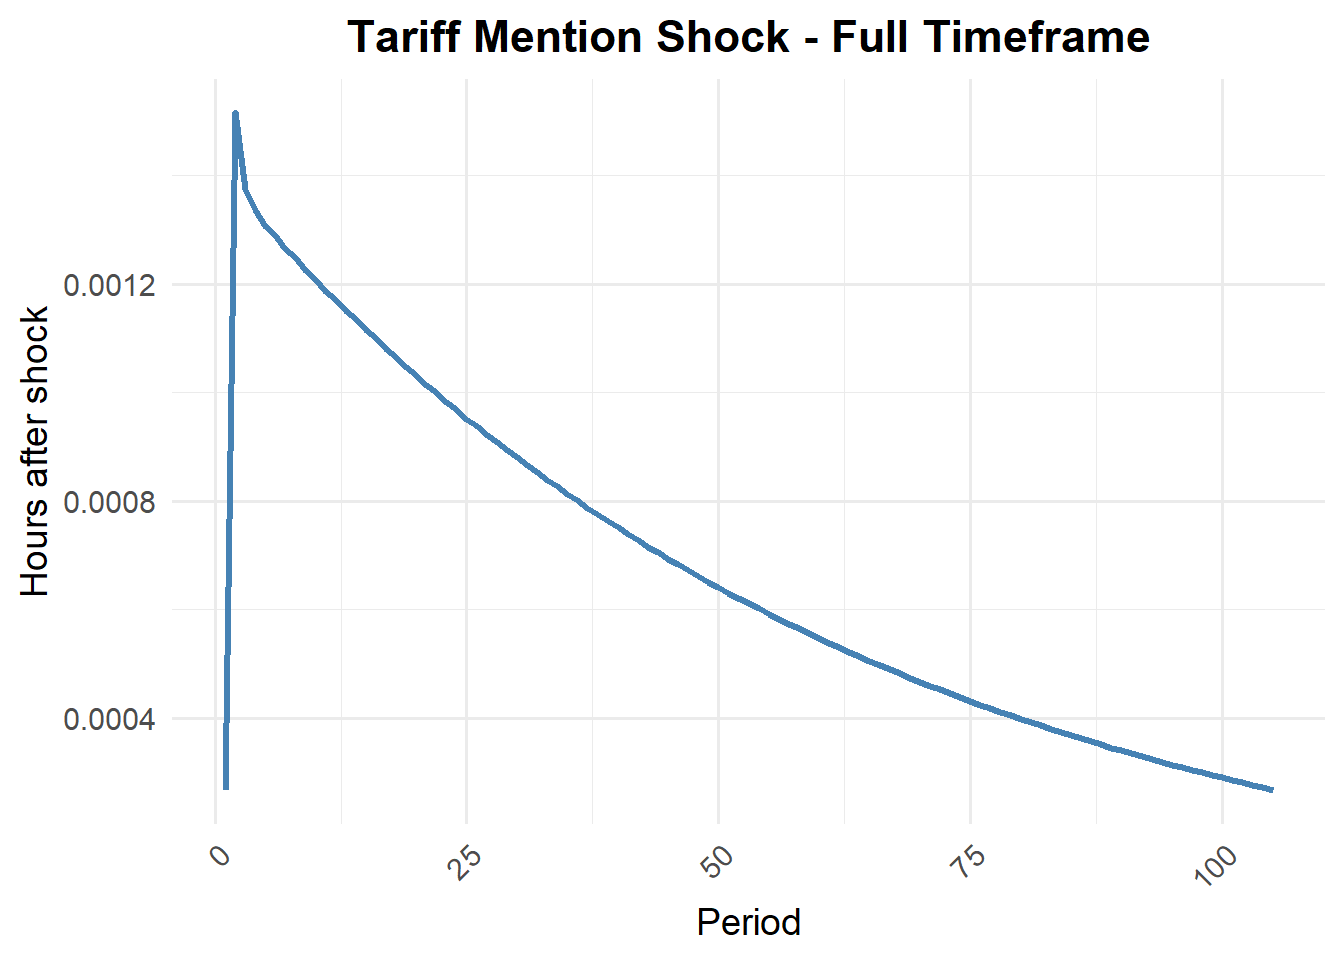
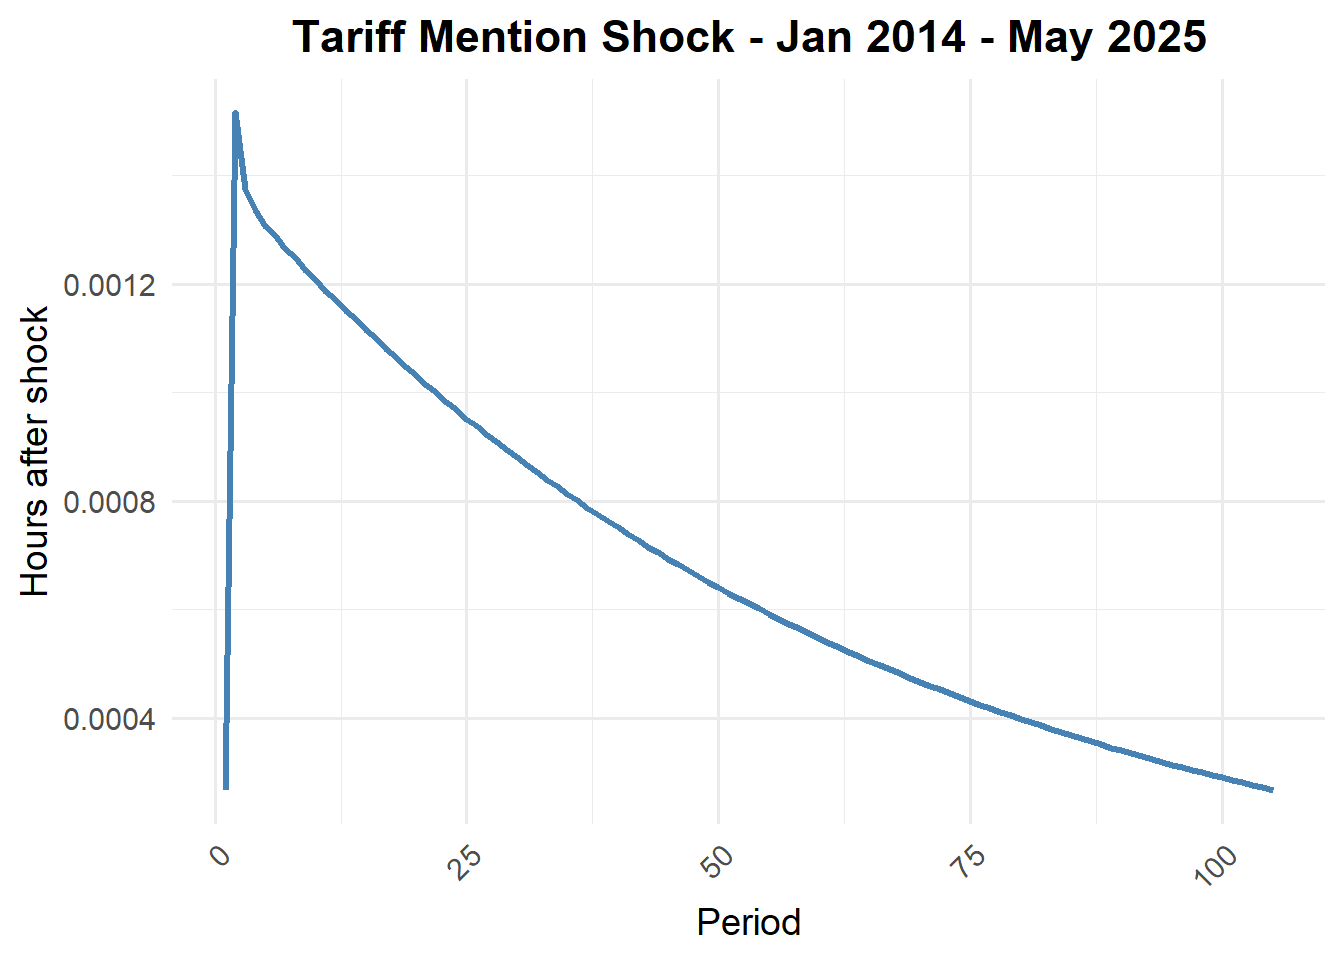
update cleanup of appendix

Changed region(s): [[0.2188, 0.0, 0.9062, 0.0625]]

diff --git a/docs/appendix.html b/docs/appendix.html
@@ -2267,14 +2267,14 @@ margin-left: 2em;
 </ul></li>
 <li class="chapter" data-level="7" data-path="appendix.html"><a href="appendix.html"><i class="fa fa-check"></i><b>7</b> Appendix</a>
 <ul>
-<li class="chapter" data-level="7.1" data-path="appendix.html"><a href="appendix.html#full-timeframe-jan-2014-to-may-2025"><i class="fa fa-check"></i><b>7.1</b> Full Timeframe (Jan 2014 to May 2025)</a>
+<li class="chapter" data-level="7.1" data-path="appendix.html"><a href="appendix.html#armax"><i class="fa fa-check"></i><b>7.1</b> ARMAX</a>
 <ul>
 <li class="chapter" data-level="7.1.1" data-path="appendix.html"><a href="appendix.html#sec:spy-table"><i class="fa fa-check"></i><b>7.1.1</b> SPY ARMAX Table (Jan 2014 - May 2025)</a></li>
 <li class="chapter" data-level="7.1.2" data-path="appendix.html"><a href="appendix.html#sec:SPY-IRF"><i class="fa fa-check"></i><b>7.1.2</b> SPY ARMAX IRFs (Jan 2024 - May 2025)</a></li>
 <li class="chapter" data-level="7.1.3" data-path="appendix.html"><a href="appendix.html#sec:SPYres"><i class="fa fa-check"></i><b>7.1.3</b> SPY Residuals</a></li>
 <li class="chapter" data-level="7.1.4" data-path="appendix.html"><a href="appendix.html#sec:spy-table-terms"><i class="fa fa-check"></i><b>7.1.4</b> SPY ARMAX Table (Separate Terms)</a></li>
+<li class="chapter" data-level="7.1.5" data-path="appendix.html"><a href="appendix.html#sec:SPYressum"><i class="fa fa-check"></i><b>7.1.5</b> Residual Test</a></li>
 </ul></li>
-<li class="chapter" data-level="7.2" data-path="appendix.html"><a href="appendix.html#sec:SPYressum"><i class="fa fa-check"></i><b>7.2</b> Descriptive Stats</a></li>
 </ul></li>
 <li class="chapter" data-level="8" data-path="cross.html"><a href="cross.html"><i class="fa fa-check"></i><b>8</b> Cross-references</a>
 <ul>
@@ -2303,8 +2303,8 @@ margin-left: 2em;
             <section class="normal" id="section-">
 <div id="appendix" class="section level1 hasAnchor" number="7">
 <h1><span class="header-section-number">Part 7</span> Appendix<a href="appendix.html#appendix" class="anchor-section" aria-label="Anchor link to header"></a></h1>
-<div id="full-timeframe-jan-2014-to-may-2025" class="section level2 hasAnchor" number="7.1">
-<h2><span class="header-section-number">7.1</span> Full Timeframe (Jan 2014 to May 2025)<a href="appendix.html#full-timeframe-jan-2014-to-may-2025" class="anchor-section" aria-label="Anchor link to header"></a></h2>
+<div id="armax" class="section level2 hasAnchor" number="7.1">
+<h2><span class="header-section-number">7.1</span> ARMAX<a href="appendix.html#armax" class="anchor-section" aria-label="Anchor link to header"></a></h2>
 <p>We choose the specification in the armax_models file. In this file, we will
 just run said specifications to produce nice tables and graphs to include in
 our final paper. This is also why there are specification differences in the
@@ -3130,7 +3130,7 @@ Num. obs.
 </div>
 <div id="sec:SPY-IRF" class="section level3 hasAnchor" number="7.1.2">
 <h3><span class="header-section-number">7.1.2</span> SPY ARMAX IRFs (Jan 2024 - May 2025)<a href="appendix.html#sec:SPY-IRF" class="anchor-section" aria-label="Anchor link to header"></a></h3>
[2 lines of base64/hex data omitted]
 </div>
 <div id="sec:SPYres" class="section level3 hasAnchor" number="7.1.3">
 <h3><span class="header-section-number">7.1.3</span> SPY Residuals<a href="appendix.html#sec:SPYres" class="anchor-section" aria-label="Anchor link to header"></a></h3>
@@ -3994,9 +3994,8 @@ Num. obs.
 </tfoot>
 </table>
 </div>
-</div>
-<div id="sec:SPYressum" class="section level2 hasAnchor" number="7.2">
-<h2><span class="header-section-number">7.2</span> Descriptive Stats<a href="appendix.html#sec:SPYressum" class="anchor-section" aria-label="Anchor link to header"></a></h2>
+<div id="sec:SPYressum" class="section level3 hasAnchor" number="7.1.5">
+<h3><span class="header-section-number">7.1.5</span> Residual Test<a href="appendix.html#sec:SPYressum" class="anchor-section" aria-label="Anchor link to header"></a></h3>
 <table class="table table-striped table-hover table-condensed" style="width: auto !important; margin-left: auto; margin-right: auto;">
 <caption>
 <span id="tab:means">Table 7.2: </span>Ljung-Box Test p-values for Residuals
@@ -4091,6 +4090,7 @@ China
 </tbody>
 </table>
 
+</div>
 </div>
 </div>
             </section>

diff --git a/docs/arma-x.html b/docs/arma-x.html
@@ -2267,14 +2267,14 @@ margin-left: 2em;
 </ul></li>
 <li class="chapter" data-level="7" data-path="appendix.html"><a href="appendix.html"><i class="fa fa-check"></i><b>7</b> Appendix</a>
 <ul>
-<li class="chapter" data-level="7.1" data-path="appendix.html"><a href="appendix.html#full-timeframe-jan-2014-to-may-2025"><i class="fa fa-check"></i><b>7.1</b> Full Timeframe (Jan 2014 to May 2025)</a>
+<li class="chapter" data-level="7.1" data-path="appendix.html"><a href="appendix.html#armax"><i class="fa fa-check"></i><b>7.1</b> ARMAX</a>
 <ul>
 <li class="chapter" data-level="7.1.1" data-path="appendix.html"><a href="appendix.html#sec:spy-table"><i class="fa fa-check"></i><b>7.1.1</b> SPY ARMAX Table (Jan 2014 - May 2025)</a></li>
 <li class="chapter" data-level="7.1.2" data-path="appendix.html"><a href="appendix.html#sec:SPY-IRF"><i class="fa fa-check"></i><b>7.1.2</b> SPY ARMAX IRFs (Jan 2024 - May 2025)</a></li>
 <li class="chapter" data-level="7.1.3" data-path="appendix.html"><a href="appendix.html#sec:SPYres"><i class="fa fa-check"></i><b>7.1.3</b> SPY Residuals</a></li>
 <li class="chapter" data-level="7.1.4" data-path="appendix.html"><a href="appendix.html#sec:spy-table-terms"><i class="fa fa-check"></i><b>7.1.4</b> SPY ARMAX Table (Separate Terms)</a></li>
+<li class="chapter" data-level="7.1.5" data-path="appendix.html"><a href="appendix.html#sec:SPYressum"><i class="fa fa-check"></i><b>7.1.5</b> Residual Test</a></li>
 </ul></li>
-<li class="chapter" data-level="7.2" data-path="appendix.html"><a href="appendix.html#sec:SPYressum"><i class="fa fa-check"></i><b>7.2</b> Descriptive Stats</a></li>
 </ul></li>
 <li class="chapter" data-level="8" data-path="cross.html"><a href="cross.html"><i class="fa fa-check"></i><b>8</b> Cross-references</a>
 <ul>
@@ -2328,7 +2328,7 @@ and the mentions of words <span class="math inline">\(Tariff\)</span>, <span cla
 apart from trade. Notice also that all the coefficients (apart from <span class="math inline">\(Tariff_{t-3}\)</span>)
 are positive, in line with our main hypothesis. The effect of <span class="math inline">\(Tariff_{t-1}\)</span> and
 <span class="math inline">\(Tariff_{t-2}\)</span> are especially large, given the usual size of the volatility
-(<span style="color:red"> <em>ARMAX Table 4</em> </span>) <a href="appendix.html#sec:SPYressum">7.2</a>. We in fact predict that an
+(<span style="color:red"> <em>ARMAX Table 4</em> </span>) <a href="appendix.html#sec:SPYressum">7.1.5</a>. We in fact predict that an
 extra mention of tariffs one hour ago, leads to a whopping extra 0.02 in volatility
 which is just about the average size for the full timeframe. We can see the
 impulse response function (IRF) for this shock, in <span style="color:red"> <em>IRFtarif</em> </span>.
@@ -2351,7 +2351,7 @@ story goes for the China variable. This may lend some evidence to support the
 claim that investors are much more reactive to Trump’s social media presence
 now than before.
 Finally, we can check the residuals of all these models to test them somewhat.
-On <span style="color:red"> <em>ARMAX Table 3</em> </span>, <a href="appendix.html#sec:SPYressum">7.2</a> the pvalues being zero
+On <span style="color:red"> <em>ARMAX Table 3</em> </span>, <a href="appendix.html#sec:SPYressum">7.1.5</a> the pvalues being zero
 for the full timeframe and first term indicate that there is autocorrelation in
 the residuals, thus suggesting that these estimations have problems. Note however,
 that the pvalues for the second term are quite high, lending support to our

diff --git a/docs/404.html b/docs/404.html
@@ -2267,14 +2267,14 @@ margin-left: 2em;
 </ul></li>
 <li class="chapter" data-level="7" data-path="appendix.html"><a href="appendix.html"><i class="fa fa-check"></i><b>7</b> Appendix</a>
 <ul>
-<li class="chapter" data-level="7.1" data-path="appendix.html"><a href="appendix.html#full-timeframe-jan-2014-to-may-2025"><i class="fa fa-check"></i><b>7.1</b> Full Timeframe (Jan 2014 to May 2025)</a>
+<li class="chapter" data-level="7.1" data-path="appendix.html"><a href="appendix.html#armax"><i class="fa fa-check"></i><b>7.1</b> ARMAX</a>
 <ul>
 <li class="chapter" data-level="7.1.1" data-path="appendix.html"><a href="appendix.html#sec:spy-table"><i class="fa fa-check"></i><b>7.1.1</b> SPY ARMAX Table (Jan 2014 - May 2025)</a></li>
 <li class="chapter" data-level="7.1.2" data-path="appendix.html"><a href="appendix.html#sec:SPY-IRF"><i class="fa fa-check"></i><b>7.1.2</b> SPY ARMAX IRFs (Jan 2024 - May 2025)</a></li>
 <li class="chapter" data-level="7.1.3" data-path="appendix.html"><a href="appendix.html#sec:SPYres"><i class="fa fa-check"></i><b>7.1.3</b> SPY Residuals</a></li>
 <li class="chapter" data-level="7.1.4" data-path="appendix.html"><a href="appendix.html#sec:spy-table-terms"><i class="fa fa-check"></i><b>7.1.4</b> SPY ARMAX Table (Separate Terms)</a></li>
+<li class="chapter" data-level="7.1.5" data-path="appendix.html"><a href="appendix.html#sec:SPYressum"><i class="fa fa-check"></i><b>7.1.5</b> Residual Test</a></li>
 </ul></li>
-<li class="chapter" data-level="7.2" data-path="appendix.html"><a href="appendix.html#sec:SPYressum"><i class="fa fa-check"></i><b>7.2</b> Descriptive Stats</a></li>
 </ul></li>
 <li class="chapter" data-level="8" data-path="cross.html"><a href="cross.html"><i class="fa fa-check"></i><b>8</b> Cross-references</a>
 <ul>

diff --git a/docs/abstract.html b/docs/abstract.html
@@ -2267,14 +2267,14 @@ margin-left: 2em;
 </ul></li>
 <li class="chapter" data-level="7" data-path="appendix.html"><a href="appendix.html"><i class="fa fa-check"></i><b>7</b> Appendix</a>
 <ul>
-<li class="chapter" data-level="7.1" data-path="appendix.html"><a href="appendix.html#full-timeframe-jan-2014-to-may-2025"><i class="fa fa-check"></i><b>7.1</b> Full Timeframe (Jan 2014 to May 2025)</a>
+<li class="chapter" data-level="7.1" data-path="appendix.html"><a href="appendix.html#armax"><i class="fa fa-check"></i><b>7.1</b> ARMAX</a>
 <ul>
 <li class="chapter" data-level="7.1.1" data-path="appendix.html"><a href="appendix.html#sec:spy-table"><i class="fa fa-check"></i><b>7.1.1</b> SPY ARMAX Table (Jan 2014 - May 2025)</a></li>
 <li class="chapter" data-level="7.1.2" data-path="appendix.html"><a href="appendix.html#sec:SPY-IRF"><i class="fa fa-check"></i><b>7.1.2</b> SPY ARMAX IRFs (Jan 2024 - May 2025)</a></li>
 <li class="chapter" data-level="7.1.3" data-path="appendix.html"><a href="appendix.html#sec:SPYres"><i class="fa fa-check"></i><b>7.1.3</b> SPY Residuals</a></li>
 <li class="chapter" data-level="7.1.4" data-path="appendix.html"><a href="appendix.html#sec:spy-table-terms"><i class="fa fa-check"></i><b>7.1.4</b> SPY ARMAX Table (Separate Terms)</a></li>
+<li class="chapter" data-level="7.1.5" data-path="appendix.html"><a href="appendix.html#sec:SPYressum"><i class="fa fa-check"></i><b>7.1.5</b> Residual Test</a></li>
 </ul></li>
-<li class="chapter" data-level="7.2" data-path="appendix.html"><a href="appendix.html#sec:SPYressum"><i class="fa fa-check"></i><b>7.2</b> Descriptive Stats</a></li>
 </ul></li>
 <li class="chapter" data-level="8" data-path="cross.html"><a href="cross.html"><i class="fa fa-check"></i><b>8</b> Cross-references</a>
 <ul>

diff --git a/docs/bibliography.html b/docs/bibliography.html
@@ -2267,14 +2267,14 @@ margin-left: 2em;
 </ul></li>
 <li class="chapter" data-level="7" data-path="appendix.html"><a href="appendix.html"><i class="fa fa-check"></i><b>7</b> Appendix</a>
 <ul>
-<li class="chapter" data-level="7.1" data-path="appendix.html"><a href="appendix.html#full-timeframe-jan-2014-to-may-2025"><i class="fa fa-check"></i><b>7.1</b> Full Timeframe (Jan 2014 to May 2025)</a>
+<li class="chapter" data-level="7.1" data-path="appendix.html"><a href="appendix.html#armax"><i class="fa fa-check"></i><b>7.1</b> ARMAX</a>
 <ul>
 <li class="chapter" data-level="7.1.1" data-path="appendix.html"><a href="appendix.html#sec:spy-table"><i class="fa fa-check"></i><b>7.1.1</b> SPY ARMAX Table (Jan 2014 - May 2025)</a></li>
 <li class="chapter" data-level="7.1.2" data-path="appendix.html"><a href="appendix.html#sec:SPY-IRF"><i class="fa fa-check"></i><b>7.1.2</b> SPY ARMAX IRFs (Jan 2024 - May 2025)</a></li>
 <li class="chapter" data-level="7.1.3" data-path="appendix.html"><a href="appendix.html#sec:SPYres"><i class="fa fa-check"></i><b>7.1.3</b> SPY Residuals</a></li>
 <li class="chapter" data-level="7.1.4" data-path="appendix.html"><a href="appendix.html#sec:spy-table-terms"><i class="fa fa-check"></i><b>7.1.4</b> SPY ARMAX Table (Separate Terms)</a></li>
+<li class="chapter" data-level="7.1.5" data-path="appendix.html"><a href="appendix.html#sec:SPYressum"><i class="fa fa-check"></i><b>7.1.5</b> Residual Test</a></li>
 </ul></li>
-<li class="chapter" data-level="7.2" data-path="appendix.html"><a href="appendix.html#sec:SPYressum"><i class="fa fa-check"></i><b>7.2</b> Descriptive Stats</a></li>
 </ul></li>
 <li class="chapter" data-level="8" data-path="cross.html"><a href="cross.html"><i class="fa fa-check"></i><b>8</b> Cross-references</a>
 <ul>

diff --git a/docs/conclusion.html b/docs/conclusion.html
@@ -2267,14 +2267,14 @@ margin-left: 2em;
 </ul></li>
 <li class="chapter" data-level="7" data-path="appendix.html"><a href="appendix.html"><i class="fa fa-check"></i><b>7</b> Appendix</a>
 <ul>
-<li class="chapter" data-level="7.1" data-path="appendix.html"><a href="appendix.html#full-timeframe-jan-2014-to-may-2025"><i class="fa fa-check"></i><b>7.1</b> Full Timeframe (Jan 2014 to May 2025)</a>
+<li class="chapter" data-level="7.1" data-path="appendix.html"><a href="appendix.html#armax"><i class="fa fa-check"></i><b>7.1</b> ARMAX</a>
 <ul>
 <li class="chapter" data-level="7.1.1" data-path="appendix.html"><a href="appendix.html#sec:spy-table"><i class="fa fa-check"></i><b>7.1.1</b> SPY ARMAX Table (Jan 2014 - May 2025)</a></li>
 <li class="chapter" data-level="7.1.2" data-path="appendix.html"><a href="appendix.html#sec:SPY-IRF"><i class="fa fa-check"></i><b>7.1.2</b> SPY ARMAX IRFs (Jan 2024 - May 2025)</a></li>
 <li class="chapter" data-level="7.1.3" data-path="appendix.html"><a href="appendix.html#sec:SPYres"><i class="fa fa-check"></i><b>7.1.3</b> SPY Residuals</a></li>
 <li class="chapter" data-level="7.1.4" data-path="appendix.html"><a href="appendix.html#sec:spy-table-terms"><i class="fa fa-check"></i><b>7.1.4</b> SPY ARMAX Table (Separate Terms)</a></li>
+<li class="chapter" data-level="7.1.5" data-path="appendix.html"><a href="appendix.html#sec:SPYressum"><i class="fa fa-check"></i><b>7.1.5</b> Residual Test</a></li>
 </ul></li>
-<li class="chapter" data-level="7.2" data-path="appendix.html"><a href="appendix.html#sec:SPYressum"><i class="fa fa-check"></i><b>7.2</b> Descriptive Stats</a></li>
 </ul></li>
 <li class="chapter" data-level="8" data-path="cross.html"><a href="cross.html"><i class="fa fa-check"></i><b>8</b> Cross-references</a>
 <ul>

diff --git a/docs/cross.html b/docs/cross.html
@@ -2267,14 +2267,14 @@ margin-left: 2em;
 </ul></li>
 <li class="chapter" data-level="7" data-path="appendix.html"><a href="appendix.html"><i class="fa fa-check"></i><b>7</b> Appendix</a>
 <ul>
-<li class="chapter" data-level="7.1" data-path="appendix.html"><a href="appendix.html#full-timeframe-jan-2014-to-may-2025"><i class="fa fa-check"></i><b>7.1</b> Full Timeframe (Jan 2014 to May 2025)</a>
+<li class="chapter" data-level="7.1" data-path="appendix.html"><a href="appendix.html#armax"><i class="fa fa-check"></i><b>7.1</b> ARMAX</a>
 <ul>
 <li class="chapter" data-level="7.1.1" data-path="appendix.html"><a href="appendix.html#sec:spy-table"><i class="fa fa-check"></i><b>7.1.1</b> SPY ARMAX Table (Jan 2014 - May 2025)</a></li>
 <li class="chapter" data-level="7.1.2" data-path="appendix.html"><a href="appendix.html#sec:SPY-IRF"><i class="fa fa-check"></i><b>7.1.2</b> SPY ARMAX IRFs (Jan 2024 - May 2025)</a></li>
 <li class="chapter" data-level="7.1.3" data-path="appendix.html"><a href="appendix.html#sec:SPYres"><i class="fa fa-check"></i><b>7.1.3</b> SPY Residuals</a></li>
 <li class="chapter" data-level="7.1.4" data-path="appendix.html"><a href="appendix.html#sec:spy-table-terms"><i class="fa fa-check"></i><b>7.1.4</b> SPY ARMAX Table (Separate Terms)</a></li>
+<li class="chapter" data-level="7.1.5" data-path="appendix.html"><a href="appendix.html#sec:SPYressum"><i class="fa fa-check"></i><b>7.1.5</b> Residual Test</a></li>
 </ul></li>
-<li class="chapter" data-level="7.2" data-path="appendix.html"><a href="appendix.html#sec:SPYressum"><i class="fa fa-check"></i><b>7.2</b> Descriptive Stats</a></li>
 </ul></li>
 <li class="chapter" data-level="8" data-path="cross.html"><a href="cross.html"><i class="fa fa-check"></i><b>8</b> Cross-references</a>
 <ul>

diff --git a/docs/data.html b/docs/data.html
@@ -2267,14 +2267,14 @@ margin-left: 2em;
 </ul></li>
 <li class="chapter" data-level="7" data-path="appendix.html"><a href="appendix.html"><i class="fa fa-check"></i><b>7</b> Appendix</a>
 <ul>
-<li class="chapter" data-level="7.1" data-path="appendix.html"><a href="appendix.html#full-timeframe-jan-2014-to-may-2025"><i class="fa fa-check"></i><b>7.1</b> Full Timeframe (Jan 2014 to May 2025)</a>
+<li class="chapter" data-level="7.1" data-path="appendix.html"><a href="appendix.html#armax"><i class="fa fa-check"></i><b>7.1</b> ARMAX</a>
 <ul>
 <li class="chapter" data-level="7.1.1" data-path="appendix.html"><a href="appendix.html#sec:spy-table"><i class="fa fa-check"></i><b>7.1.1</b> SPY ARMAX Table (Jan 2014 - May 2025)</a></li>
 <li class="chapter" data-level="7.1.2" data-path="appendix.html"><a href="appendix.html#sec:SPY-IRF"><i class="fa fa-check"></i><b>7.1.2</b> SPY ARMAX IRFs (Jan 2024 - May 2025)</a></li>
 <li class="chapter" data-level="7.1.3" data-path="appendix.html"><a href="appendix.html#sec:SPYres"><i class="fa fa-check"></i><b>7.1.3</b> SPY Residuals</a></li>
 <li class="chapter" data-level="7.1.4" data-path="appendix.html"><a href="appendix.html#sec:spy-table-terms"><i class="fa fa-check"></i><b>7.1.4</b> SPY ARMAX Table (Separate Terms)</a></li>
+<li class="chapter" data-level="7.1.5" data-path="appendix.html"><a href="appendix.html#sec:SPYressum"><i class="fa fa-check"></i><b>7.1.5</b> Residual Test</a></li>
 </ul></li>
-<li class="chapter" data-level="7.2" data-path="appendix.html"><a href="appendix.html#sec:SPYressum"><i class="fa fa-check"></i><b>7.2</b> Descriptive Stats</a></li>
 </ul></li>
 <li class="chapter" data-level="8" data-path="cross.html"><a href="cross.html"><i class="fa fa-check"></i><b>8</b> Cross-references</a>
 <ul>

diff --git a/docs/index.html b/docs/index.html
@@ -2267,14 +2267,14 @@ margin-left: 2em;
 </ul></li>
 <li class="chapter" data-level="7" data-path="appendix.html"><a href="appendix.html"><i class="fa fa-check"></i><b>7</b> Appendix</a>
 <ul>
-<li class="chapter" data-level="7.1" data-path="appendix.html"><a href="appendix.html#full-timeframe-jan-2014-to-may-2025"><i class="fa fa-check"></i><b>7.1</b> Full Timeframe (Jan 2014 to May 2025)</a>
+<li class="chapter" data-level="7.1" data-path="appendix.html"><a href="appendix.html#armax"><i class="fa fa-check"></i><b>7.1</b> ARMAX</a>
 <ul>
 <li class="chapter" data-level="7.1.1" data-path="appendix.html"><a href="appendix.html#sec:spy-table"><i class="fa fa-check"></i><b>7.1.1</b> SPY ARMAX Table (Jan 2014 - May 2025)</a></li>
 <li class="chapter" data-level="7.1.2" data-path="appendix.html"><a href="appendix.html#sec:SPY-IRF"><i class="fa fa-check"></i><b>7.1.2</b> SPY ARMAX IRFs (Jan 2024 - May 2025)</a></li>
 <li class="chapter" data-level="7.1.3" data-path="appendix.html"><a href="appendix.html#sec:SPYres"><i class="fa fa-check"></i><b>7.1.3</b> SPY Residuals</a></li>
 <li class="chapter" data-level="7.1.4" data-path="appendix.html"><a href="appendix.html#sec:spy-table-terms"><i class="fa fa-check"></i><b>7.1.4</b> SPY ARMAX Table (Separate Terms)</a></li>
+<li class="chapter" data-level="7.1.5" data-path="appendix.html"><a href="appendix.html#sec:SPYressum"><i class="fa fa-check"></i><b>7.1.5</b> Residual Test</a></li>
 </ul></li>
-<li class="chapter" data-level="7.2" data-path="appendix.html"><a href="appendix.html#sec:SPYressum"><i class="fa fa-check"></i><b>7.2</b> Descriptive Stats</a></li>
 </ul></li>
 <li class="chapter" data-level="8" data-path="cross.html"><a href="cross.html"><i class="fa fa-check"></i><b>8</b> Cross-references</a>
 <ul>

diff --git a/docs/introduction.html b/docs/introduction.html
@@ -2267,14 +2267,14 @@ margin-left: 2em;
 </ul></li>
 <li class="chapter" data-level="7" data-path="appendix.html"><a href="appendix.html"><i class="fa fa-check"></i><b>7</b> Appendix</a>
 <ul>
-<li class="chapter" data-level="7.1" data-path="appendix.html"><a href="appendix.html#full-timeframe-jan-2014-to-may-2025"><i class="fa fa-check"></i><b>7.1</b> Full Timeframe (Jan 2014 to May 2025)</a>
+<li class="chapter" data-level="7.1" data-path="appendix.html"><a href="appendix.html#armax"><i class="fa fa-check"></i><b>7.1</b> ARMAX</a>
 <ul>
 <li class="chapter" data-level="7.1.1" data-path="appendix.html"><a href="appendix.html#sec:spy-table"><i class="fa fa-check"></i><b>7.1.1</b> SPY ARMAX Table (Jan 2014 - May 2025)</a></li>
 <li class="chapter" data-level="7.1.2" data-path="appendix.html"><a href="appendix.html#sec:SPY-IRF"><i class="fa fa-check"></i><b>7.1.2</b> SPY ARMAX IRFs (Jan 2024 - May 2025)</a></li>
 <li class="chapter" data-level="7.1.3" data-path="appendix.html"><a href="appendix.html#sec:SPYres"><i class="fa fa-check"></i><b>7.1.3</b> SPY Residuals</a></li>
 <li class="chapter" data-level="7.1.4" data-path="appendix.html"><a href="appendix.html#sec:spy-table-terms"><i class="fa fa-check"></i><b>7.1.4</b> SPY ARMAX Table (Separate Terms)</a></li>
+<li class="chapter" data-level="7.1.5" data-path="appendix.html"><a href="appendix.html#sec:SPYressum"><i class="fa fa-check"></i><b>7.1.5</b> Residual Test</a></li>
 </ul></li>
-<li class="chapter" data-level="7.2" data-path="appendix.html"><a href="appendix.html#sec:SPYressum"><i class="fa fa-check"></i><b>7.2</b> Descriptive Stats</a></li>
 </ul></li>
 <li class="chapter" data-level="8" data-path="cross.html"><a href="cross.html"><i class="fa fa-check"></i><b>8</b> Cross-references</a>
 <ul>

diff --git a/docs/var.html b/docs/var.html
@@ -2267,14 +2267,14 @@ margin-left: 2em;
 </ul></li>
 <li class="chapter" data-level="7" data-path="appendix.html"><a href="appendix.html"><i class="fa fa-check"></i><b>7</b> Appendix</a>
 <ul>
-<li class="chapter" data-level="7.1" data-path="appendix.html"><a href="appendix.html#full-timeframe-jan-2014-to-may-2025"><i class="fa fa-check"></i><b>7.1</b> Full Timeframe (Jan 2014 to May 2025)</a>
+<li class="chapter" data-level="7.1" data-path="appendix.html"><a href="appendix.html#armax"><i class="fa fa-check"></i><b>7.1</b> ARMAX</a>
 <ul>
 <li class="chapter" data-level="7.1.1" data-path="appendix.html"><a href="appendix.html#sec:spy-table"><i class="fa fa-check"></i><b>7.1.1</b> SPY ARMAX Table (Jan 2014 - May 2025)</a></li>
 <li class="chapter" data-level="7.1.2" data-path="appendix.html"><a href="appendix.html#sec:SPY-IRF"><i class="fa fa-check"></i><b>7.1.2</b> SPY ARMAX IRFs (Jan 2024 - May 2025)</a></li>
 <li class="chapter" data-level="7.1.3" data-path="appendix.html"><a href="appendix.html#sec:SPYres"><i class="fa fa-check"></i><b>7.1.3</b> SPY Residuals</a></li>
 <li class="chapter" data-level="7.1.4" data-path="appendix.html"><a href="appendix.html#sec:spy-table-terms"><i class="fa fa-check"></i><b>7.1.4</b> SPY ARMAX Table (Separate Terms)</a></li>
+<li class="chapter" data-level="7.1.5" data-path="appendix.html"><a href="appendix.html#sec:SPYressum"><i class="fa fa-check"></i><b>7.1.5</b> Residual Test</a></li>
 </ul></li>
-<li class="chapter" data-level="7.2" data-path="appendix.html"><a href="appendix.html#sec:SPYressum"><i class="fa fa-check"></i><b>7.2</b> Descriptive Stats</a></li>
 </ul></li>
 <li class="chapter" data-level="8" data-path="cross.html"><a href="cross.html"><i class="fa fa-check"></i><b>8</b> Cross-references</a>
 <ul>
